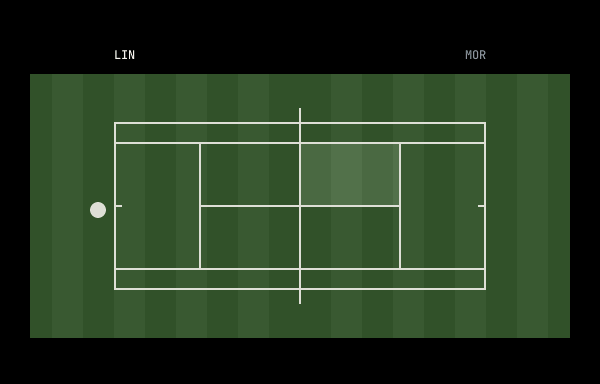
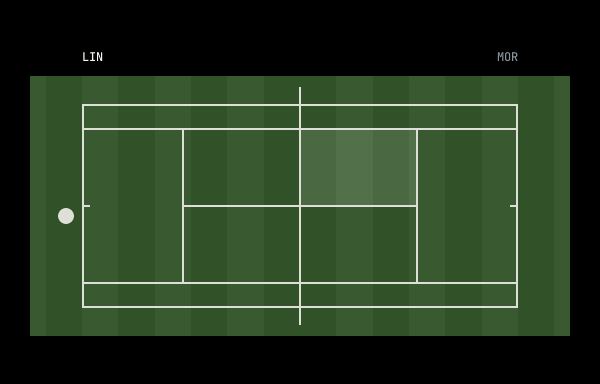
Sports surfaces: slimmer run-off; Tennis live court full width (WIP)
The run-off is now half the ITF club minimum (2.74 m behind each baseline,
1.52 m at the sides, the same proportions), so the court itself is bigger;
the serve dot still fits behind the baseline down to the smallest width.
Rule text on the foundation page says so.

Tennis live: the court spans the full content width (screen inset each
side) at the bottom, its height from the court's proportions, its names
row off (prop names, new: the score shows them). The score takes the room
above, hero layout when it fits, else compact (both panels use compact
now). Dark-theme lines stay the slightly dimmed white.

diff --git a/renderer/screens/tennis_live.cpp b/renderer/screens/tennis_live.cpp
@@ -2,7 +2,9 @@
 //   header   the event ("Sample Open · Final")
 //   hero     Tennis score, hero layout: the point in display type (what changes most, read from across the room),
 //            the players with the serve dot, finished sets and the set in play, the moment line + state chip
-//   court    Tennis court under it: who serves, from which half, into which box; sized to the room left
+//   court    Tennis court at the bottom, the full content width (screen inset each side; Darren 2026-10-24), height from
+//            the court's proportions (sf::tennis_fit); its names row off (the score shows them). The score takes the
+//            room above: hero layout when it fits, else compact
 // The screen runs one simulator (sample data) or takes p["feed"] from an adapter and hands it to both parts.
 #include "fw.h"
 #include "surface.h"
@@ -11,7 +13,7 @@
 
 namespace {
 using namespace fw::sport;
-struct Screen { lv_obj_t *header = nullptr, *score = nullptr, *court = nullptr; int sw = 0, cw = 0; Picker *pick = nullptr; };
+struct Screen { lv_obj_t *header = nullptr, *score = nullptr, *court = nullptr; int sw = 0, cw = 0; const char *layout = "hero"; Picker *pick = nullptr; };
 Screen *of(lv_obj_t *root) {
   lv_obj_t *h = lv_obj_get_child(root, 0);
   return h ? (Screen *) lv_obj_get_user_data(h) : nullptr;
@@ -29,10 +31,10 @@ void push(lv_obj_t *root, ArduinoJson::JsonVariantConst f) {
   Screen *s = of(root);
   if (!s || picker_paused(s->pick)) return;  // TV sync paused: the screen holds what it shows
   ArduinoJson::JsonDocument a;
-  a["feed"] = f, a["sim"] = false, a["layout"] = "hero", a["width"] = s->sw;
+  a["feed"] = f, a["sim"] = false, a["layout"] = s->layout, a["width"] = s->sw;
   fw::update_child(fw::find("tennis_score"), s->score, a.as<fw::Props>());
   ArduinoJson::JsonDocument b;
-  b["feed"] = f, b["sim"] = false, b["width"] = s->cw;
+  b["feed"] = f, b["sim"] = false, b["names"] = false, b["width"] = s->cw;
   fw::update_child(fw::find("tennis_court"), s->court, b.as<fw::Props>());
   ArduinoJson::JsonDocument hd;
   hd["label"] = f["event"] | "Tennis";
@@ -80,32 +82,31 @@ void fill(lv_obj_t *root, fw::Props p) {
   fw::find("header")->build(root, hd.as<fw::Props>());
   s->header = lv_obj_get_child(root, -1);
   lv_obj_set_pos(s->header, fw::lay::inset, fw::lay::inset);
-  const int X = fw::lay::inset, Y = fw::lay::top, W = fw::lay::content_w, H = fw::lay::screen_h - fw::lay::top - fw::lay::inset;
-  // the score: full width, its own height
-  lv_obj_t *sb = box(root, X, Y, W, 0);
-  lv_obj_set_height(sb, LV_SIZE_CONTENT);
-  s->sw = dp(W);
-  ArduinoJson::JsonDocument sd;
-  sd["sim"] = false, sd["feed"] = "{\"players\":[{},{}],\"sets\":[[0,0]],\"points\":[0,0],\"server\":0}", sd["layout"] = "hero", sd["width"] = s->sw;
-  fw::find("tennis_score")->build(sb, sd.as<fw::Props>());
-  s->score = lv_obj_get_child(sb, -1);
-  lv_obj_add_flag(sb, LV_OBJ_FLAG_OVERFLOW_VISIBLE);
-  lv_obj_update_layout(sb);
-  const int sh = (lv_obj_get_height(s->score) + 3) / 4 * 4;
-  lv_obj_set_height(sb, sh);
-  // the court: as wide as fits the room left (its height = label row + the surface: Sports surfaces sf::tennis_fit)
-  const int room = H - sh - fw::lay::group;
-  const int label = fw::style(fw::ty::c_caps_sm).box + fw::sp::s3;
-  int cw = W;
-  while (cw > 160 && label + fw::sf::tennis_fit(cw).h > room) cw -= 8;
-  cw = cw / 8 * 8;
-  lv_obj_t *cb = box(root, X + (W - cw) / 2 / 4 * 4, Y + sh + fw::lay::group, cw, room);
-  s->cw = dp(cw);
+  const int X = fw::lay::inset, Y = fw::lay::top, W = fw::lay::content_w;
+  // the court first: the full content width at the bottom, its height from the court's proportions
+  const fw::sf::TennisFit g = fw::sf::tennis_fit(W);
+  const int cy = fw::lay::screen_h - fw::lay::inset - g.h;
+  lv_obj_t *cb = box(root, X, cy, W, g.h);
+  s->cw = dp(W);
   ArduinoJson::JsonDocument cd;
-  cd["sim"] = false, cd["feed"] = "{}", cd["width"] = s->cw;
+  cd["sim"] = false, cd["feed"] = "{}", cd["names"] = false, cd["width"] = s->cw;
   fw::find("tennis_court")->build(cb, cd.as<fw::Props>());
   s->court = lv_obj_get_child(cb, -1);
   lv_obj_add_flag(cb, LV_OBJ_FLAG_OVERFLOW_VISIBLE);
+  // the score: full width in the room above (a group gap clear of the court): hero when it fits, else compact
+  const int room = cy - fw::lay::group - Y;
+  lv_obj_t *sb = box(root, X, Y, W, room);
+  s->sw = dp(W);
+  for (const char *layout : {"hero", "compact"}) {
+    lv_obj_clean(sb);
+    ArduinoJson::JsonDocument sd;
+    sd["sim"] = false, sd["feed"] = "{\"players\":[{},{}],\"sets\":[[0,0]],\"points\":[0,0],\"server\":0}", sd["layout"] = layout, sd["width"] = s->sw;
+    fw::find("tennis_score")->build(sb, sd.as<fw::Props>());
+    s->score = lv_obj_get_child(sb, -1), s->layout = layout;
+    lv_obj_update_layout(sb);
+    if (lv_obj_get_height(s->score) <= room) break;
+  }
+  lv_obj_add_flag(sb, LV_OBJ_FLAG_OVERFLOW_VISIBLE);
   // the match picker: the header button + its sheet over the whole screen (core/sport_pick.h)
   s->pick = picker_attach(root, s->header, 't', p);
   picker_hero(s->pick, sb);

diff --git a/renderer/components/tennis_court.cpp b/renderer/components/tennis_court.cpp
@@ -8,6 +8,7 @@
 //   serve    a court-line dot (lay::sport_marker) in the run-off behind the server's baseline, on the half they serve from
 //   box      the target service box: sf::tennis_mark (court-line at court.mark under the lines)
 //   names    caps label over each end (text); the server's in text, the receiver's in text-dim; only with a feed
+//            and prop names (a screen that shows the score above turns them off: Tennis live)
 // Motion: the serve dot and the box glide to the next point's place (Motion "value"); silent. Pairs: "sport", "surfaces".
 // Data: prop "feed" = a tennis feed, or the tennis simulator.
 #include "fw.h"
@@ -90,7 +91,7 @@ void sim_apply(lv_obj_t *root, ArduinoJson::JsonVariantConst feed) {
 std::string sig_of(fw::Props p) {
   char b[64];
   const char *feed = p["feed"].is<const char *>() ? p["feed"].as<const char *>() : "";
-  snprintf(b, sizeof b, "%d|%d", (int) (p["width"] | 360), (int) ((p["sim"] | true) || *feed || p["feed"].is<ArduinoJson::JsonObjectConst>()));
+  snprintf(b, sizeof b, "%d|%d|%d", (int) (p["width"] | 360), (int) ((p["sim"] | true) || *feed || p["feed"].is<ArduinoJson::JsonObjectConst>()), (int) (p["names"] | true));
   return b;
 }
 void fill(lv_obj_t *root, fw::Props p) {
@@ -105,7 +106,7 @@ void fill(lv_obj_t *root, fw::Props p) {
   // names row (only with a feed or the simulator), then the court object with the serve dot in its run-off
   v->surface = p["surface"] | "auto";
   const char *ft = p["feed"].is<const char *>() ? p["feed"].as<const char *>() : "";
-  v->names = (p["sim"] | true) || *ft || p["feed"].is<ArduinoJson::JsonObjectConst>();
+  v->names = (p["names"] | true) && ((p["sim"] | true) || *ft || p["feed"].is<ArduinoJson::JsonObjectConst>());
   const int label_h = fw::style(fw::ty::c_caps_sm).box;
   v->top = v->names ? label_h + fw::sp::s3 : 0;
   v->court = fw::sf::court(root, w, surface_of(p, ArduinoJson::JsonVariantConst()));
@@ -140,6 +141,7 @@ FW_COMPONENT(tennis_court, "Tennis court", "components", R"({
   "props": [
     {"name": "width", "type": "range", "min": 160, "max": 448, "step": 8, "default": 360},
     {"name": "surface", "type": "select", "options": ["auto", "hard", "clay", "grass", "indoor", "carpet", "wimbledon", "roland-garros", "us-open", "australian-open", "atp-finals"], "default": "auto"},
+    {"name": "names", "type": "bool", "default": true},
     {"name": "sim", "type": "bool", "default": true},
     {"name": "speed", "type": "select", "options": ["1x", "10x", "60x"], "default": "10x"},
     {"name": "jump", "type": "select", "options": ["start", "break point", "break", "tiebreak", "set point", "match point"], "default": "start"},

diff --git a/site/src/content/updates/2026-10-24-sports-surfaces.md b/site/src/content/updates/2026-10-24-sports-surfaces.md
@@ -9,4 +9,5 @@ links: [["Sports surfaces", "foundations/surfaces/"], ["Tennis court", "componen
 ---
 A new Sports surfaces foundation: clay, grass, hard, indoor and carpet in their real colours, toned down to sit on the
 canvas, plus looks for Wimbledon, Roland-Garros, the US Open, the Australian Open and the ATP Finals. Lines stay white
-and one weight at any size, and the court follows the surface the data names. Football pitches come next.
+and one weight at any size, a slim run-off gives the court itself the room, and the court follows the surface the data
+names. On the live tennis screen the court now runs the full width. Football pitches come next.
